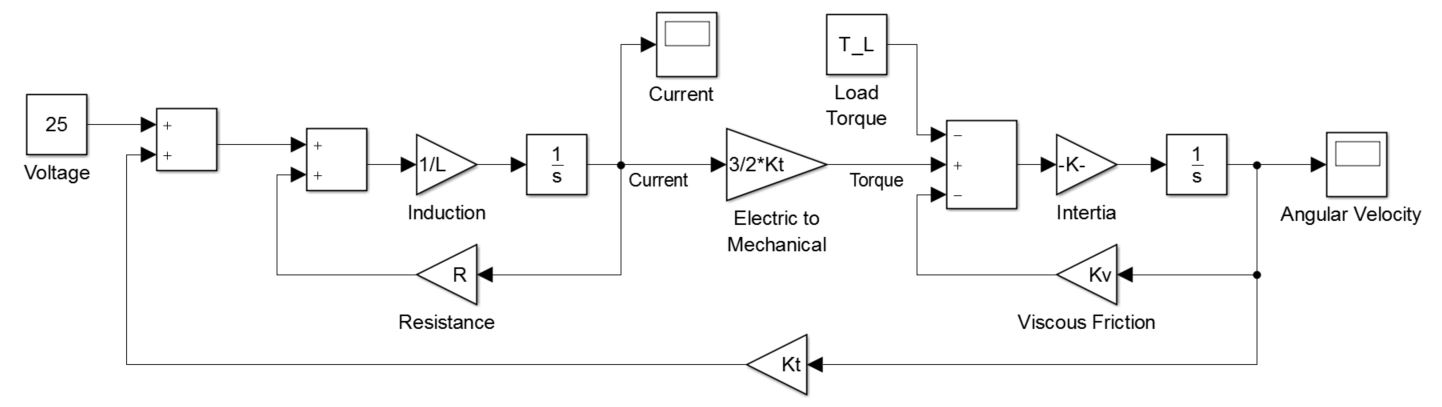
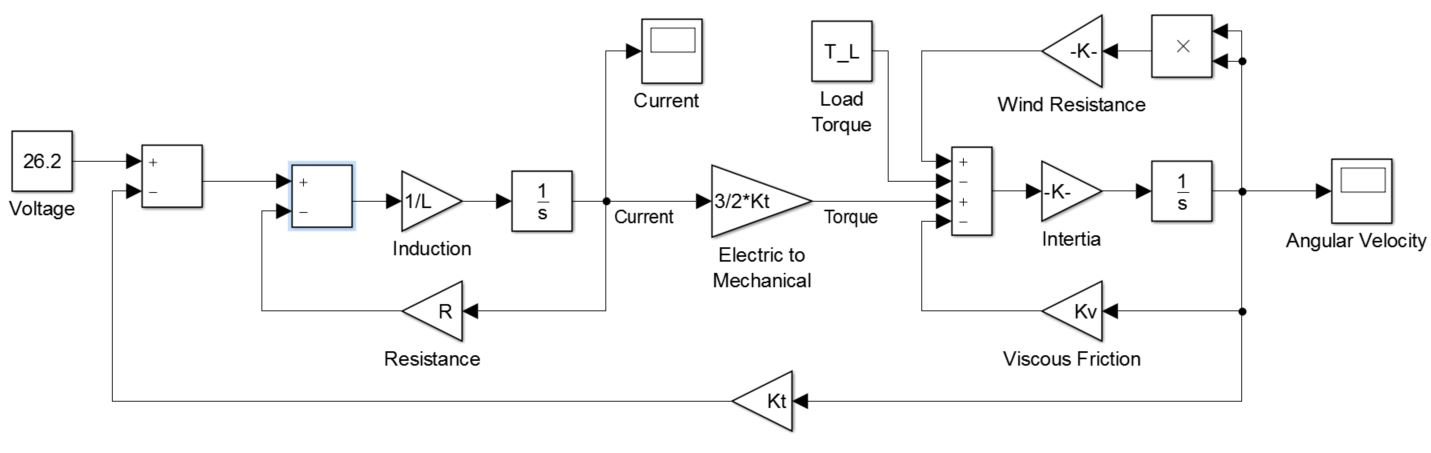
writings from yesterday.

diff --git a/report/sections/motormodel.tex b/report/sections/motormodel.tex
@@ -17,33 +17,35 @@ In reality it is not a torque value that must be a reference for the controller,
 
 \todo[inline]{MORTEN: have to change picture to have the correct signs and values compared to the stuff below. must be a little more scientific than it is now. Ask me! - will do it myself! i got le visio installed}
 
-To properly control this, a model of the PMSM motor is required to derive controller values for the two PID controllers. To model the PMSM motor an equivalent circuit of the motor will be used. Figures \ref{fig:PMSM_Equivalent_d_axis} and \ref{fig:PMSM_Equivalent_q_axis} shows these circuits for the d and q axes. These equivalent circuits are based on the motor presented in section 7 and use dq0 to represent the two DC phases that are controlled. \newline
+To properly control this, a mathematical model of the PMSM motor from section 7 is required to derive controller values for the two PID controllers. To model the PMSM motor an equivalent circuit of the motor will be used. For an AC electrical motor the equivalent circuit can be represented by the diagram presented on figure \ref{fig:PMSM_Equivalent_d_axis} and \ref{fig:PMSM_Equivalent_q_axis}.\newline
 
-The figures show that there are common component values between the two circuits which are the values directly from the motor. The other equivalent values are of less concern which is apparent from the next diagram, figure \ref{fig:State_space_model1}.
+The figures show that the PMSM motor can be represented as an electrical diagram with the physical properties represented by inductors and resistors. The connection between  the rotor and stator works like a transformer, with coils generating a change in either part to represent the stator to rotor relation. The coils on the rotor move with respect to those on the stator, so there is a variation in the amount of interaction between them. The circuit is split into two parts, one for the torque and one for the flux. Which is exactly what is done through the dq0 transform. \newline
 
-\begin{figure}[H]
+\begin{figure}[!h]
 	\centering
-	\begin{subfigure}[t]{.45\linewidth}
+	\begin{subfigure}[t]{.5\linewidth}
 		\includegraphics[width=\textwidth]{graphics/d_axis_equivalent}
 		\caption{PMSM motor equivalent circuit, d-axis}
 		\label{fig:PMSM_Equivalent_d_axis}
 	\end{subfigure}
 	\hspace{1cm}
-	\begin{subfigure}[t]{.28\linewidth}
+	\begin{subfigure}[t]{.30\linewidth}
 		\includegraphics[width=\textwidth]{graphics/q_axis_equivalent}
 		\caption{PMSM motor equivalent circuit, q-axis}
 		\label{fig:PMSM_Equivalent_q_axis}
 	\end{subfigure}
 	\caption{Source: http://goo.gl/EM8LoN}
 \end{figure}
+\todo{Morten: add source to cites or make it yourself!}
 
-\todo{Morten: add source to cites}
+The components shows are: the mutual inductance $l_s$, $L_md$ and $L_mq$. Armature resistance $R_s$ and flux leakage for both d and q axes.
 
-
+What can be learned from this electrical equivalent diagram is that the magnet on the rotor side, on the d-axis diagram figure \ref{fig:PMSM_Equivalent_d_axis}, can be seen as a current source $i_m$. A change in flux of this magnet will induce a force resulting in current in the magnet. This is shown with the $R_m$ resistor.
+\todo[inline]{Morten: Explain further? need to read more to go from here to math-model below, might need help to explain it properly and correctly.}
 
 
 \subsection{State Space Model}
-A state space model is derived from the physical representation of a PMSM motor, figure \ref{fig:State_space_model1}, consisting of an electrical part on the left and a mechanical part on the right side of the model. The model is made in MatLab Simulink. The model is very similar to that of a DC motor when interpreted like this.
+A state space model is derived from the physical representation of a PMSM motor, figure \ref{fig:State_space_model1}, consisting of an electrical part on the left and a mechanical part on the right side of the model. The model is made in MatLab Simulink. The model is very similar to that of a DC motor when interpreted like this. A wind resistance has been added to show how it affects the torque of the motor. The value of the wind resistance is the rotational speed squared multiplied by a drag value. This value will be a negative number, which is then added to the torque output to slow down the motor. The drag can be approximated by looking at the gearings of the kart and the motors own drag coefficient. 
 
 \begin{figure}[H]
 	\centering
@@ -52,16 +54,7 @@ A state space model is derived from the physical representation of a PMSM motor,
 	\label{fig:State_space_model1}
 \end{figure}
 
-Reducing this model to use transfer functions for the electrical and mechanical parts results in a more simple model, figure \ref{fig:State_space_model2}. A wind resistance has been added to show how it affects the torque of the motor. The value of the wind resistance is the rotational speed squared multiplied by a drag value. This value will be a negative number, which is then added to the torque output to slow down the motor. The drag can be approximated by looking at the gearings of the kart and the motors own drag coefficient.
-
-\begin{figure}[H]
-	\centering
-	\includegraphics[width=.95\linewidth]{graphics/State_space_model2}
-	\caption{PMSM motor model simplified with tranfer functions.}
-	\label{fig:State_space_model2}
-\end{figure}
-
-An even further reduced model is derived to further simplify the system. This model removes torque load, friction and wind resistance. It is shows on figure \ref{fig:State_space_model3}. This model can be used to find controller values if the torque load, viscous friction and wind resistance are all seen as disturbances. The controller should be able to handle the about of disturbance that can be found in these values.
+Reducing this model to use transfer functions for the electrical and mechanical parts results in a more simple model with fewer loops. This model removes torque load, friction and wind resistance. It is shown on figure \ref{fig:State_space_model3}. It can be used to find controller values if the torque load, viscous friction and wind resistance are all seen as outside disturbances. The controller should be able to handle the amount of disturbance that can be found in these values. The wind resistance will get proportionally larger the faster the kart is moving, but for this first model it will not be taken into account. 
 
 \begin{figure}[H]
 	\centering
@@ -84,7 +77,7 @@ A control loop is added to the model, figure \ref{fig:State_space_model4}. It mu
 
 
 \subsection{Transfer Function}
-The model of figure \ref{fig:State_space_model4} can be rearranged to simplify the transfer function. This rearrangement can be seen on figure \ref{fig:State_space_model5}. Here the current is the output, a current reference is the input, and the mechanical part of the motor is all placed into a feedback loop.
+The model of figure \ref{fig:State_space_model4} can be rearranged to simplify the transfer function. This rearrangement can be seen on figure \ref{fig:State_space_model5}. Here the current is the output, a current reference is the input, and the mechanical part of the motor is all placed into a feedback loop. This reduces the complexity of the overall transfer function to only be plant model with a PI controller added as shown in figure \ref{fig:state_space_model6}.
 
 \begin{figure}[H]
 	\centering
@@ -103,17 +96,24 @@ The model of figure \ref{fig:State_space_model4} can be rearranged to simplify t
 Using masons rule \todo{Morten: dodds book reference to masons} the transfer function can be derived. Seeing the control loop as a controller and a plant the following equation is achieved. Equation \ref{eq:plant_masons}.
 
 \begin{equation}
-\frac{I_m}{I_{ref}}= \frac{(K_p+K_i\frac{1}{s})G(s)}{1-(K_p+K_i \frac{1}{s})G(s)}
+\dfrac{I_m}{I_{ref}}= \dfrac{(K_p+K_i\frac{1}{s})G(s)}{1+G(s)(K_p+K_i \frac{1}{s})}
 \label{eq:plant_masons}
 \end{equation}
 
 Replacing $G(s)$ and rearranging to get the form of a characteristics equation the transfer function is equation \ref{eq:transfer_function_full}.
+
+%old equation. please leave (Morten)
+%\begin{equation}
+%\frac{I_m}{I_{ref}}=\frac{s^2\frac{K_p}{L}+s(\frac{K_i}{L}+\frac{K_pK_v}{J})+\frac{K_iK_v}{J_r}}{s^3+s^2(\frac{R}{2L}+\frac{K_v}{J}+\frac{K_p}{L})+s(\frac{3K_t^2}{2JL}+\frac{K_vR}{JL}+\frac{K_i}{L}+\frac{K_pK_v}{2J})+\frac{K_iK_v}{J}}
+%\label{eq:transfer_function_full}
+%\end{equation}
+
 \begin{equation}
-\frac{I_m}{I_{ref}}=\frac{s^2\frac{K_p}{L}+s(\frac{K_i}{L}+\frac{K_pK_v}{J})+\frac{K_iK_v}{J_r}}{s^3+s^2(\frac{R}{2L}+\frac{K_v}{J}+\frac{K_p}{L})+s(\frac{3K_t^2}{2JL}+\frac{K_vR}{JL}+\frac{K_i}{L}+\frac{K_pK_v}{2J})+\frac{K_iK_v}{J}}
+\dfrac{I_m}{I_{ref}}=\dfrac{L_a(K_i+K_p+s)}{s^2+s(\frac{R_a}{L_a}+\frac{1}{L_a}K_p)+\frac{1}{L_a}K_i+\frac{3K_t^2}{2JL_a}}
 \label{eq:transfer_function_full}
 \end{equation}
 
-This third order transfer function will be used to derive the controller values.
+This second order transfer function will be used to derive the controller values.
 
 \subsection{Controller Values}
 To find the controller values the Stephen Dodds Settling Time Formula for $5\%$ settling time is used. The desired characteristics polynomial of a transfer function for the settling time formula to work is
@@ -124,16 +124,16 @@ s^n+d_{n-1}s^{n-1}+\cdot \cdot \cdot +d_1s+d_0
 
 The d's of a given order can be looked up in Stephen J. Dodds' book \todo{cite book} on page 850.
 
-This yields the following third order equation for a third order system.
+This yields the following second order equation for a second order system.
 
 \begin{equation}
-s^3 + 3\alpha s^2+3\alpha^2s+\alpha^3
+s^2+3\alpha^2s+\alpha^3
 \end{equation}
 
 Based on the transfer function in equation ref and a settling time of 0.1 seconds, alpha will be defined by the following equation. This value is used to find the Kp and Ki values for the controller.
 
 \begin{equation}
-\alpha=\frac{1.5(1+n)}{T_s^{5\%}}=\frac{6}{0.1}=60
+\alpha=\frac{1.5(1+n)}{T_s^{5\%}}=\frac{4.5}{0.1}=45
 \label{eq:Dodds_settlingtime}
 \end{equation}
 
@@ -145,6 +145,7 @@ Finding the controller values.
 \begin{equation}
 3 \alpha^2= \frac{2K_t^2}{2JL}+ \frac{K_vR}{JL}+ \frac{K_i}{L}+ \frac{K_pK_v}{2J} \rightarrow K_i=(3 \alpha^2- \frac{K_pK_v}{2J}- \frac{K_vR}{JL}- \frac{3K_t^2}{2JL})L
 \end{equation}
+\todo[inline]{Morten: The equations are wrong. the values are right.}
 
 These equations yield the following controller values, equation \ref{eq:Kpvalue} and \ref{eq:Kivalue}.
 \begin{equation}
